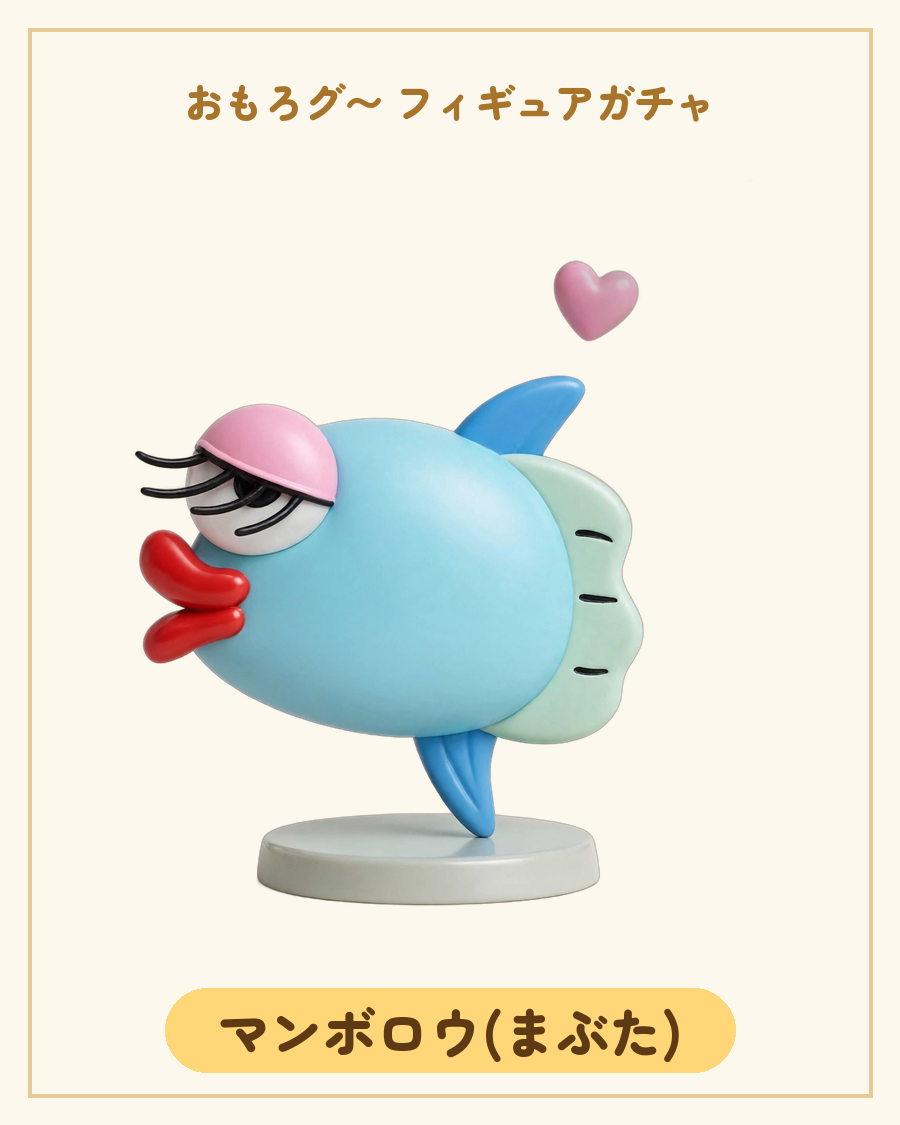
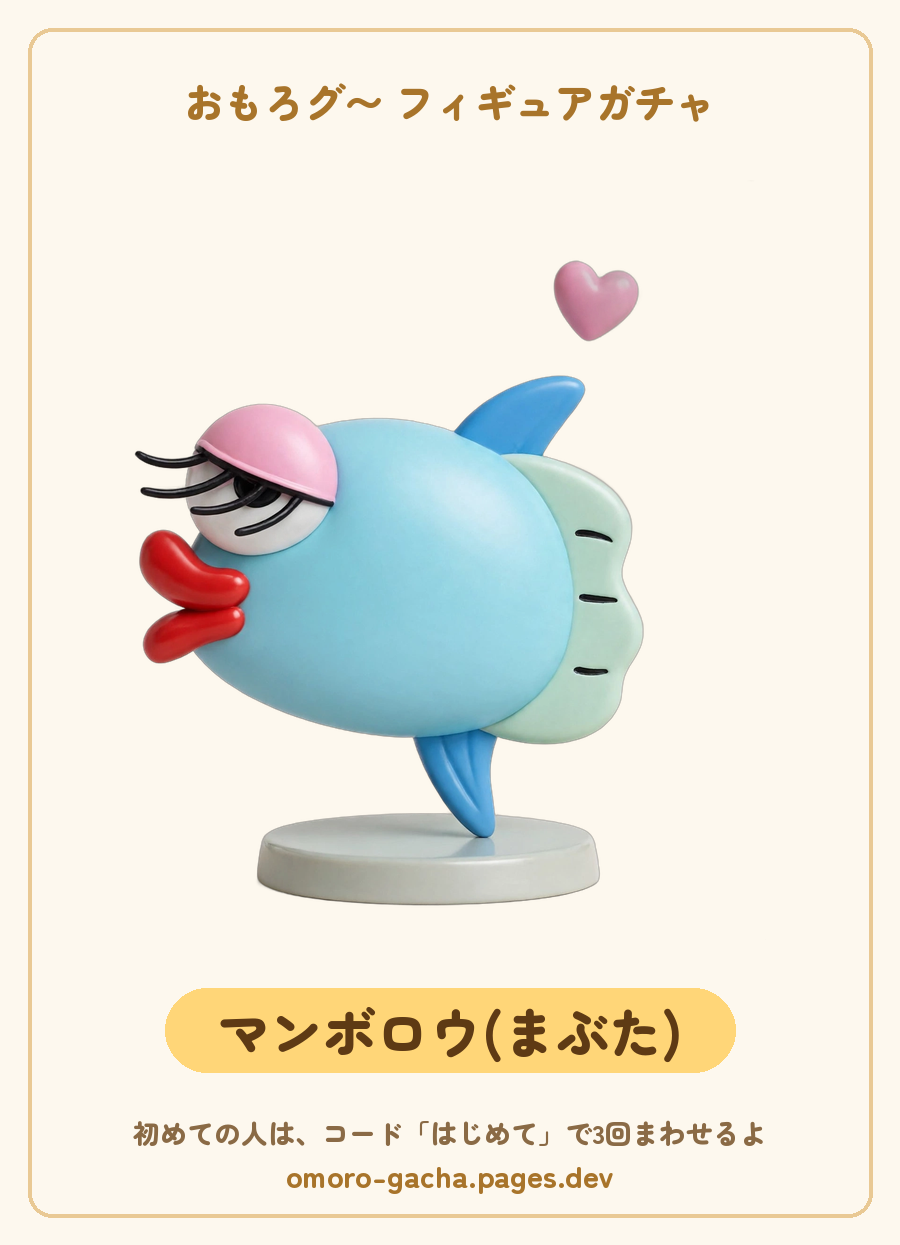
カードにコードとアドレスを追加、シェアの説明を追加

Changed region(s): [[0.0311, 0.1867, 0.9644, 0.9956], [0.1867, 0.0622, 0.8089, 0.1244], [0.0311, 0.0, 0.9644, 0.0311]]

diff --git a/gacha.html b/gacha.html
@@ -69,6 +69,7 @@
   .code-btn{ min-height:48px; padding:8px 20px; border:2px solid var(--orange); border-radius:12px; background:#fff; color:var(--orange-dark); font-size:15px; font-weight:900; font-family:inherit; cursor:pointer; }
   .code-btn:disabled{ opacity:.5; cursor:default; }
   .code-msg{ font-size:13.5px; color:var(--ink-soft); margin:6px 0 0; min-height:1.2em; }
+  .share-hint{ font-size:12px; color:var(--ink-soft); margin:8px 6px 0; line-height:1.6; }
   .raise-box{ display:flex; align-items:center; gap:12px; background:var(--yellow-soft); border:2px solid var(--card-border); border-radius:16px; padding:14px; margin:18px 0 4px; text-align:left; }
   .raise-thumb{ flex:0 0 60px; text-align:center; }
   .raise-thumb img{ max-width:60px; max-height:76px; width:auto; height:auto; }
@@ -229,6 +230,7 @@
       <p id="resultNewWrap" hidden><span class="result-new">NEW！</span></p>
       <a class="save-btn" id="saveBtn" href="#" download hidden>📥 画像を保存する</a>
       <button type="button" class="save-btn share-btn" id="shareBtn" hidden>⤴ 友達にシェア</button>
+      <p class="share-hint" id="shareHint" hidden>シェアすると、文章とリンクもコピーされるよ。シェア先で文章が出なかったら、貼り付けてね。</p>
     </div>
   </section>
 
@@ -313,6 +315,7 @@
     <p class="ov-name" id="ovName"></p>
     <a class="save-btn" id="ovSave" href="#" download>📥 画像を保存する</a>
     <button type="button" class="save-btn share-btn" id="ovShare">⤴ 友達にシェア</button>
+    <p class="share-hint">シェアすると、文章とリンクもコピーされるよ。シェア先で文章が出なかったら、貼り付けてね。</p>
     <button type="button" class="ov-close-btn" id="ovCloseBtn">閉じる</button>
   </div>
 </div>
@@ -386,6 +389,7 @@
   var resultName = document.getElementById('resultName');
   var saveBtn  = document.getElementById('saveBtn');
   var shareBtn = document.getElementById('shareBtn');
+  var shareHint = document.getElementById('shareHint');
   var albumGrid  = document.getElementById('albumGrid');
   var albumCount = document.getElementById('albumCount');
   var completeMsg= document.getElementById('completeMsg');
@@ -692,6 +696,7 @@
       resultNewWrap.hidden = true;
       saveBtn.hidden = true;
       shareBtn.hidden = true;
+      shareHint.hidden = true;
       stage.hidden = false;
       stage.scrollIntoView({ behavior: 'auto', block: 'center' });
       void bigCap.offsetWidth;
@@ -729,6 +734,7 @@
           shareBtn.dataset.key = prize.key;
           shareBtn.dataset.name = prize.name;
           shareBtn.hidden = false;
+          shareHint.hidden = false;
           spinning = false;
           renderAlbum();
           renderSpin();
@@ -816,7 +822,7 @@
         if (navigator.canShare({ files: [file] })) {
           if (navigator.clipboard) { navigator.clipboard.writeText(text).catch(function(){}); }
           navigator.share({ files: [file], text: text }).then(function(){
-            showToast('文章はコピーもしたよ。LINEで文章が出なかったら、貼り付けてね。');
+            showToast('文章とリンクをコピーしたよ。シェア先で文章が出なかったら、貼り付けてね。');
           }).catch(function(){});
         } else { shareTextOnly(); }
       }).catch(function(){ shareTextOnly(); });
